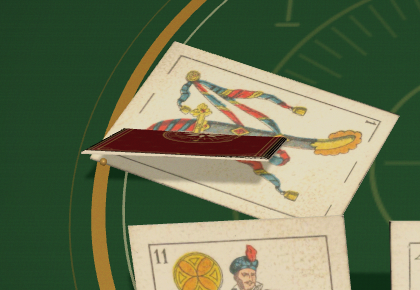
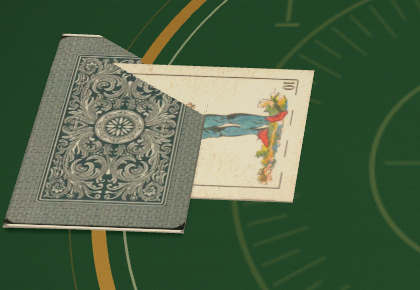
fix(cartas): usar el dorso clásico de la imagen del usuario
- Sustituye el dorso generado por la imagen aportada, recortada al tamaño de carta.
- Cache de cartas v6 y capturas/README/créditos actualizados.

diff --git a/packages/client/src/graphics/cardTextures.ts b/packages/client/src/graphics/cardTextures.ts
@@ -3,7 +3,7 @@ import { Card } from "@brisca/core";
 
 // Bump when the card art changes so clients and the PWA cache fetch the
 // restored versions instead of serving the previous deck.
-const CARD_VERSION = "5";
+const CARD_VERSION = "6";
 
 const loader = new THREE.TextureLoader();
 const textureCache = new Map<string, THREE.Texture>();

diff --git a/CREDITS.md b/CREDITS.md
@@ -6,7 +6,7 @@
 
 - Fuente: [Wikimedia Commons — Heraclio Fournier's 1878 card deck](https://commons.wikimedia.org/wiki/Category:Heraclio_Fournier%E2%80%99s_1878_card_deck)
 - Licencia: **dominio público** (los 42 archivos originales están marcados como tal).
-- Adaptación para el juego: recorte de márgenes, normalización a 512×810, restauración de papel y color (nivel B), limpieza del agujero de escaneo de la Sota de bastos y conversión a WebP. El reverso es un diseño original de inspiración clásica española (rojo y oro); no reproduce el dorso actual de Fournier, que sigue protegido. El reverso escaneado de 1878 es un patrón floral muy denso que produce muaré a tamaño pequeño.
+- Adaptación para el juego: recorte de márgenes, normalización a 512×810, restauración de papel y color (nivel B), limpieza del agujero de escaneo de la Sota de bastos y conversión a WebP. El reverso es la imagen aportada por el usuario; los derechos sobre ese dorso corresponden a su autor. Las caras de la baraja Fournier 1878 son de dominio público. El reverso escaneado de 1878 es un patrón floral muy denso que produce muaré a tamaño pequeño.
 - «Fournier» es una marca de Naipes Heraclio Fournier, S.A. Este proyecto no está afiliado ni patrocinado por Fournier; usa una baraja histórica en dominio público.
 
 ## Código, 3D y sonido

diff --git a/README.md b/README.md
@@ -16,7 +16,7 @@
 ## 🌟 Características
 
 - **Manos en abanico:** tus cartas se ven sujetas y el rival enseña los reversos; la baza, el mazo y el triunfo siguen planos sobre el tapete.
-- **Baraja Española (40 cartas)** con el arte de la **baraja Fournier de 1878** (dominio público, Museo Fournier de Naipes), normalizada y restaurada a 512×810 WebP, con reverso rojo clásico original inspirado en la baraja española.
+- **Baraja Española (40 cartas)** con el arte de la **baraja Fournier de 1878** (dominio público, Museo Fournier de Naipes), normalizada y restaurada a 512×810 WebP, con el reverso clásico de la imagen aportada por el usuario (azul pizarra y crema).
 - **Estética arcade Balatro**: mesa 3D, cartas con volumen, partículas, _screen shake_ y filtro CRT.
 - **Online en tiempo real**:
   - Salas privadas con código de 4 letras y enlace directo (`?room=ABCD`).
